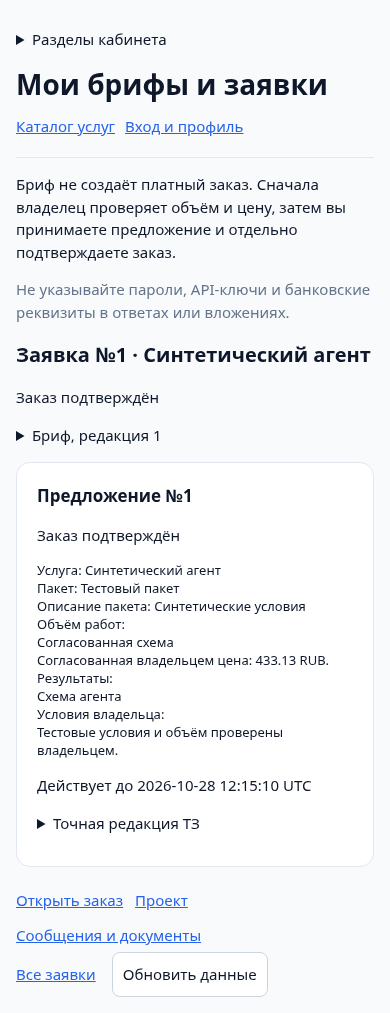
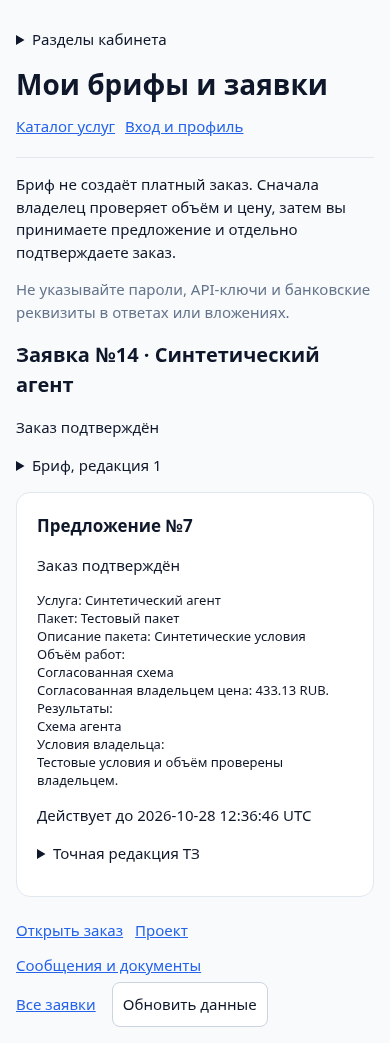
docs(catalog): record final 300-test verification and cost safeguards

Changed region(s): [[0.0308, 0.0306, 0.9538, 0.8263], [0.0308, 0.8875, 0.5538, 0.9793], [0.6154, 0.9487, 0.6462, 0.9793]]

diff --git a/docs/STAGE-9-REPORT.md b/docs/STAGE-9-REPORT.md
@@ -19,7 +19,7 @@
 
 `private/catalog/{contracts,core,manage,requests,offers,read,routes,bindings}.php`; `public/{catalog,ordering,catalog-owner}.{php,js}` + `catalog-api.php`, `catalog.css`; `database/migrations/013_service_ordering/{up,down}.sql`, `scripts/migrate-catalog.php`; `tests/test_catalog.py`, `test_catalog_migrations.py`.
 
-Небольшие интеграционные изменения: `private/{customer-auth.php,config.example.php,product-navigation.php}`, `private/crm/{core,routes,write}.php`, `private/collab/{routes,approvals}.php`, `private/pricing/{core,engine}.php`, `private/ai/context.php`, `private/production/{core,routes}.php`; `public/{index.php,operations.js,pricing.js,production.js}`, test router.
+Небольшие интеграционные изменения: `private/{customer-auth.php,config.example.php,product-navigation.php}`, `private/crm/{core,routes,write}.php`, `private/collab/{routes,approvals,documents}.php`, `private/pricing/{core,engine}.php`, `private/ai/context.php`, `private/production/{core,routes}.php`; `public/{index.php,operations.js,pricing.js,production.js,collaboration.js}`, test router.
 
 013 создаёт8 additive binding tables. 001–012 не изменены. MySQL5.7 tested; exact dependency012/checksum/strict mode/journal/partial recovery/advisory locks/empty-only rollback. Production SQL не выполнялся. Empty down не является разрешением удалять живые данные: непустой down отказывает, code rollback должен сохранять данные и выключать feature flags.
 
@@ -27,9 +27,9 @@
 
 ## Проверки — выполнено реально
 
-- Полный Python regression **298 tests PASS**, 275.568 с после окончательных backend/audit изменений. Предыдущий полный прогон также298 PASS, 253.923 с.
-- Новый catalog/migration набор **20 tests PASS**, 36.639 с: условные ответы, drafts, consent/CSRF, ownership, service versions, price freshness, generic approval bypass, concurrent confirmation в независимых PHP processes, deterministic no-provider flow, mock AI task orchestration, expiry/cancel, owner unsaved-publish protection, migrations/recovery.
-- После добавления отдельной Stage7 cross-module проверки **1 invoice integration test PASS**, 3.133 с. Таким образом текущая suite содержит299 тестов; local full discovery до добавления этого теста содержал298. Результат GitHub для299 отмечается отдельно, не выдумывается.
+- Полный Python regression: **300 tests PASS**, 296.448 с на предыдущем checkpoint; до него298 PASS, 275.568 с. Итоговый повтор после последних guard/UI интеграционных изменений: **300 tests PASS, 285.206 с**. Последнее правило whitespace-only required отдельно перепроверено в полном catalog/migration наборе22 PASS (43.164 с).
+- Итоговый catalog/migration набор **22 tests PASS**, 43.164 с (также48.620 с на предыдущем checkpoint) (предыдущий checkpoint20 PASS, 36.639 с): условные ответы, drafts, consent/CSRF, ownership, service versions, price freshness, generic approval bypass, concurrent confirmation в независимых PHP processes, deterministic no-provider flow, mock AI task orchestration, expiry/cancel, owner unsaved-publish protection, migrations/recovery.
+- После добавления отдельной Stage7 cross-module проверки **1 invoice integration test PASS**, 3.133 с. После добавления защиты owner-linked project и нового regression текущая suite содержит300 тестов. Результат GitHub отмечается отдельно по exact head SHA, не выдумывается.
 - После CSS spacing отдельно повторён реальный browser journey **1 PASS**, 7.825 с: catalog → customer brief → owner quote approval → owner proposal publish → customer acceptance → confirmed order. В актуальном тесте проверены save/resume после reload, unchecked consent, unexpected HTTP200 HTML без false success, сохранность ответов, mobile390px и pageerror.
 - PHP8.4.27 lint **105 файлов PASS**, JS syntax **18 файлов PASS**, Node **12/12 PASS**. Real MySQL5.7.42, Apache2.4.69, Chromium/Playwright; только random loopback neuro_test_* DBs.
 - actionlint, existing release policy check, compileall, git diff --check — PASS. Gitleaks текущего дерева: утечек не найдено; не повторный full-history audit.
@@ -37,7 +37,7 @@
 
 Прогоны: existing `python -m unittest discover -s tests -p 'test_*.py' -q`, targeted `-p 'test_catalog*.py'`, browser/invoice `-k test_12` / `-k test_18`, `node --test tests/api-client.test.cjs`, PHP/JS syntax и release policy tools. Loopback DSN `mysql:host=127.0.0.1;port=33078`, PHP/APACHE executables из изолированного test runtime. Production credentials не использовались.
 
-Неуспешные промежуточные проверки не скрываются: browser обнаружил недоступное точное label select, исправлены aria-label и лишняя перерисовка; затем overly broad locator ожидал один из двух подтверждённых статусов — уточнён только selector. В новом invoice test первый payload не содержал обязательную дату счёта, fixture исправлен по фактическому API. После исправлений проверки исполнены повторно. Никакие security guards не снимались для зелёного теста.
+Неуспешные промежуточные проверки не скрываются: browser обнаружил недоступное точное label select, исправлены aria-label и лишняя перерисовка; затем overly broad locator ожидал один из двух подтверждённых статусов — уточнён только selector. В новом invoice test первый payload не содержал обязательную дату счёта, fixture исправлен по фактическому API. Также закрыты owner-prelinked order (никакого второго заказа), omission unknown owner time в AI результате (остаётся NEEDS_COST_REVIEW), а связанные Stage6 документы показывают переход в catalog workflow вместо generic decision buttons. После исправлений проверки исполнены повторно. Никакие security guards не снимались для зелёного теста.
 
 ## End-to-end статус
 

diff --git a/docs/STAGE-9-ARCHITECTURE.md b/docs/STAGE-9-ARCHITECTURE.md
@@ -42,7 +42,7 @@ Attachments используют существующий private Stage6 upload/
 3. Save — optimistic version + idempotency. Submit валидирует всю анкету/файлы/политику, формирует literal sections goal/functionality/integrations/design/deliverables/budget/deadline/other, missing information и пустой список неподтверждённых assumptions. Бюджет/желаемый срок не становятся обещанием.
 4. Первая отправка создаёт одну nd_leads, nd_lead_customers relation и существующую deal; CRM customer/account не дублируются. Следующая редакция сохраняет эти IDs и историю. Создаётся Stage6 draft specification; scope и acceptance — из owner-configured service и actual brief.
 5. Автоматически вызывается общий pricing engine на package model/typed quantity rules. Время проверки и исправлений владельцем добавляется явно как labor work packages. Null остаётся unknown и даёт NEEDS_COST_REVIEW. На вопросах нет свободного формульного языка, валютный курс/налоги/ставки не выдумываются.
-6. Если уже включены AI + approved data processing + ai_pricing_auto_enabled, ставится существующий cost_estimator task с immutable brief key. Provider credentials не нужны для deterministic path. AI output лишь оценка (uncertain=true), не approve. В контекст передаётся redacted bounded brief как untrusted data; модель не получает config/secrets. Без provider разрешён profile-based estimate, без достаточных исходных данных — review. Неуспех estimator после commit не отменяет сохранённый request, технический metadata лог приватный.
+6. Если уже включены AI + approved data processing + ai_pricing_auto_enabled, ставится существующий cost_estimator task с immutable brief key. Provider credentials не нужны для deterministic path. AI output лишь оценка (uncertain=true), не approve. Mandatory review/correction labor packages добавляются сервером и к AI-расчёту; неизвестное значение в модели не исчезает из-за ответа модели. Эти часы не нужно повторно включать в обычные work packages. В контекст передаётся redacted bounded brief как untrusted data; модель не получает config/secrets. Без provider разрешён profile-based estimate, без достаточных исходных данных — review. Неуспех estimator после commit не отменяет сохранённый request, технический metadata лог приватный.
 7. Owner открывает существующий pricing component (rates/decimal arithmetic/contingency/tax/overhead/minimum margin) в catalog CRM. Тот же `pricing_dispatch`, без AI gate для детерминированной математики. Owner может approve/edit/recalculate/reject, каждая цена immutable. При наличии артефакта existing proposal agent его можно включить в draft только для matching project/approved quote.
 8. Owner prepares draft commercial proposal с exact brief/price/spec/package/terms/expiry и опциональным одобренным сроком. Stage6 description служит proposal document; новая разновидность документов/новый approval engine не создаются. Customer не видит DRAFT offers.
 9. Owner publish проверяет exact checksum, latest approved fresh quote, текущую service/template и spec; переводит точные Stage6 spec/proposal в sent и создаёт существующие customer approval requests. Никакой auto-send до owner publish.
@@ -56,7 +56,7 @@ Existing pricing_scope включает project/order versions и spec statuses.
 
 Server транзакционно сохраняет ровно три перехода: PUBLISHED, ACCEPTED, CONFIRMED, from exact original quotation scope hash → actual post-transition hash. `pricing_fresh` допускает только exact mapped hash для того же offer/brief/approved quote и актуальной request revision. Проверки latest rates/policy продолжают работать. Изменение description/version/нового spec/rate/policy не совпадает с binding и требует re-estimation. Старый quote JSON не редактируется. Это узкий lifecycle adapter, а не игнорирование версий.
 
-Bound Stage6 documents/decisions нельзя менять generic cc mutation endpoint в обход catalog exact workflow. Guard сначала проверяет object ownership, поэтому чужой ID остаётся404. Общие Stage6 документы вне catalog работают как раньше.
+Bound Stage6 documents/decisions нельзя менять generic cc mutation endpoint в обход catalog exact workflow. Guard сначала проверяет object ownership, поэтому чужой ID остаётся404. Detail/list возвращают scoped catalog_request_id; Stage6 UI направляет решения в эту заявку и не показывает заблокированные generic mutation controls для связанных документов. Общие Stage6 документы вне catalog работают как раньше.
 
 ## API
 

diff --git a/docs/STAGE-9-OWNER-CHECKLIST-RU.md b/docs/STAGE-9-OWNER-CHECKLIST-RU.md
@@ -3,7 +3,7 @@
 Это инструкции к тестовой версии, а не подтверждение публикации neurodelo.pro. На production флаги/миграции/автоматизация не менялись. Не нужны новые аккаунты сотрудников, Codex API или платёжные ключи.
 
 1. В `/catalog-owner.php#templates` создайте анкету. Можно добавить шаги/вопросы конструктором и отредактировать JSON: название, назначение ответа, required, bounds, варианты, условия. Пример ниже — только структура, не утверждённая услуга. Сохраните и отдельно опубликуйте точную редакцию. Запомните показанный ID редакции, не ID родительской анкеты.
-2. В `#services` создайте услугу: название/описание, категория, состав работ, результаты, estimate/fixed, пакеты, Telegram и ID опубликованной редакции анкеты. Оценочные пакеты и количества внутренние; клиент их не получает. Время вашей проверки/исправлений заполните явно; null не заменяется нулём.
+2. В `#services` создайте услугу: название/описание, категория, состав работ, результаты, estimate/fixed, пакеты, Telegram и ID опубликованной редакции анкеты. Оценочные пакеты и количества внутренние; клиент их не получает. Время вашей проверки/исправлений заполните явно; null не заменяется нулём. Эти часы добавляются сервером отдельно, не дублируйте их в обычных пакетах работ. Даже AI-ответ не убирает неизвестное время из модели.
 3. Сохраните услугу: прежняя публикация остаётся прежней. Проверьте и отдельно нажмите «Опубликовать точную редакцию». Изменённый несохранённый JSON публиковаться не должен. Проверяйте «Показанная редакция» и активную публикацию. Снять с публикации/архивировать можно без удаления истории.
 4. В `/catalog.php` должны отображаться только ваши опубликованные данные. Если приём брифов не настроен/юридически не одобрен, entry закрыт. Сайт не должен показывать придуманные услуги, цены или готовность оплаты.
 5. Под существующим тестовым клиентом откройте «Заполнить бриф». Отдельное согласие изначально снято. Создайте черновик, заполните шаги и условные вопросы, сохраните. Перезагрузите: ответы восстановлены, согласие заново не проставлено автоматически.
